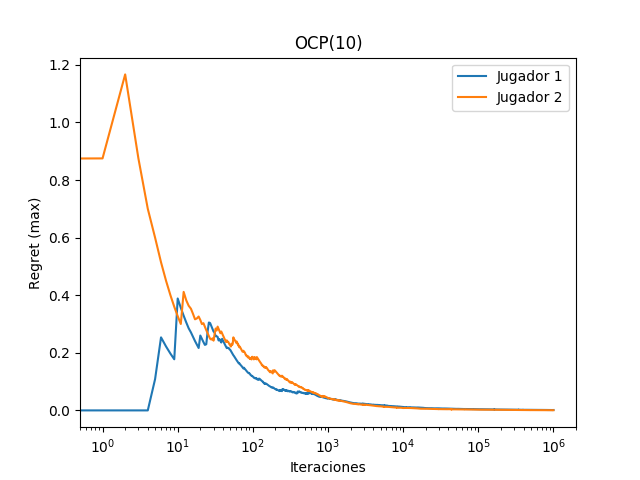
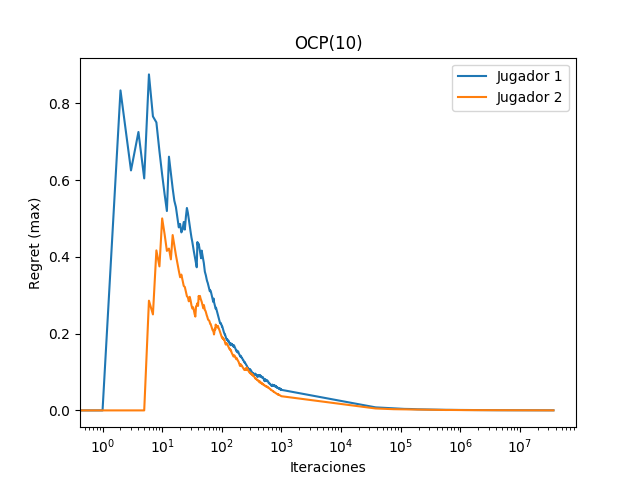
Improve graphics and OCP

diff --git a/src/cfr.cpp b/src/cfr.cpp
@@ -12,25 +12,40 @@ using namespace std;
 int total_seconds = 300;
 #define EPS 1e-5
 
-void cfr_kuhn(ostream& os_regret, ostream& os_strategy, ostream& os_inf_sets) {
+void cfr_kuhn(
+    ostream& os_regret,
+    ostream& os_strategy,
+    ostream& os_inf_sets,
+    ostream& os_iterations
+    )
+{
     using namespace kuhn_poker;
     KuhnPoker kuhn_poker;
     CFR<State, Action, Properties, InformationSet, Hash> cfr({&kuhn_poker}, EPS);
     cout << "training..." << endl;
     long long iterations = cfr.train(total_seconds, os_regret);
-    cout << "Iterations = " << iterations << endl;
+    os_iterations << "Total number of iterations:" << endl;
+    os_iterations << iterations << endl;
     cout << "finished training" << endl;
     cfr.print_strategy(os_strategy);
     kuhn_poker.print_information_sets(os_inf_sets);
 }
 
-void cfr_ocp(ostream& os_regret, ostream& os_strategy, ostream& os_inf_sets, int N) {
+void cfr_ocp(
+    ostream& os_regret,
+    ostream& os_strategy,
+    ostream& os_inf_sets,
+    ostream& os_iterations,
+    int N
+) {
     using namespace ocp;
     OCP ocp(N);
     CFR<State, Action, Properties, InformationSet, Hash> cfr({&ocp}, EPS);
-    cfr.train(total_seconds, os_regret);
+    long long iterations = cfr.train(total_seconds, os_regret);
     cfr.print_strategy(os_strategy);
     ocp.print_information_sets(os_inf_sets);
+    os_iterations << "Total number of iterations:" << endl;
+    os_iterations << iterations << endl;
 }
 
 void cfr_dudo(ostream& os_regret, ostream& os_strategy, ostream& os_inf_sets, int K, int D1, int D2) {
@@ -97,19 +112,21 @@ int main(int argc, char **argv) {
     string path_regret = "regret/" + folder + "/regret.txt";
     string path_strategy = "results/" + folder + "/strategy.txt";
     string path_inf_sets = "results/" + folder + "/information_sets.txt";
+    string path_iterations = "results/" + folder + "/iterations.txt";
     ofstream os_regret(path_regret.c_str());
     ofstream os_strategy(path_strategy.c_str());
     ofstream os_inf_sets(path_inf_sets.c_str());
+    ofstream os_iterations(path_iterations.c_str());
 
     if(game == "KuhnPoker"){
-        cfr_kuhn(os_regret, os_strategy, os_inf_sets);
+        cfr_kuhn(os_regret, os_strategy, os_inf_sets, os_iterations);
     } else if(game == "OCP"){
         if (argc < 3) {
             cout << "Debes introducir el numero de cartas" << endl;
             return 0;
         }
         int N = atoi(argv[2]);
-        cfr_ocp(os_regret, os_strategy, os_inf_sets, N);
+        cfr_ocp(os_regret, os_strategy, os_inf_sets, os_iterations, N);
     } else if(game == "Dudo") {
         if (argc < 5) {
             cout << "Debes introducir los parametros K, D1 y D2" << endl;
@@ -137,4 +154,8 @@ int main(int argc, char **argv) {
         cout << "\tDudo" << endl;
         cout << "\tDomino" << endl;
     }
+    os_regret.close();
+    os_strategy.close();
+    os_inf_sets.close();
+    os_iterations.close();
 }

diff --git a/src/algorithms/CFR.cpp b/src/algorithms/CFR.cpp
@@ -123,12 +123,13 @@ void CFR<State, Action, Properties, InformationSet, Hash>::normalize_strategy()
 }
 
 template <typename State, typename Action, typename Properties, typename InformationSet, typename Hash>
-long long CFR<State, Action, Properties, InformationSet, Hash>::train(int sec, ostream& os)
+long long CFR<State, Action, Properties, InformationSet, Hash>::train(long long sec, ostream& os)
 {
     vector <vector<int>> information_sets(2);
     auto total_seconds = (duration<long int, ratio<1, 1000000>>) (long long) sec*1000000;
     auto accumulated_time = (duration<long int, ratio<1, 1000000>>)0;
-    long long i;
+    long long slide = sec*1000;
+    long long i, j = 0, j0 = 0;
     for (i = 0; ; i++) {
         auto start = high_resolution_clock::now();
         for (int k = 1; k <= 2; k++){
@@ -137,18 +138,27 @@ long long CFR<State, Action, Properties, InformationSet, Hash>::train(int sec, o
         }
         auto stop = high_resolution_clock::now();
         accumulated_time = accumulated_time + duration_cast<microseconds>(stop-start);
-        vector <double> r(2, 0);
-        for (int k = 0; k < 2; k++) {
-            for (auto I : game->player_information_sets(k+1)) {
-                double regret = 0;
-                for (int a = 0; a < (int) R[I].size(); a++)
-                    regret = max(regret, R[I][a]);
-                r[k] += regret;
+
+        if(accumulated_time > (duration<long int, ratio<1, 1000000>>) slide*j) {
+            if (j0 < 1000){
+                j0++;
+            } else {
+                j++;
             }
-            r[k] /= i+1;
-            os << r[k] << ' ';
+            vector <double> r(2, 0);
+            os << i << ' ';
+            for (int k = 0; k < 2; k++) {
+                for (auto I : game->player_information_sets(k+1)) {
+                    double regret = 0;
+                    for (int a = 0; a < (int) R[I].size(); a++)
+                        regret = max(regret, R[I][a]);
+                    r[k] += regret;
+                }
+                r[k] /= i+1;
+                os << r[k] << ' ';
+            }
+            os << endl;
         }
-        os << endl;
         if (accumulated_time >= total_seconds)
             break;
     }

diff --git a/src/graph.py b/src/graph.py
@@ -7,19 +7,22 @@ def make_plot(path_input, path_graph, name):
     i = 0
     regret1 = []
     regret2 = []
+    iterations = []
     while i < MAX_VAL:
         line = file.readline()
         if not line:
             break
-        regret1.append(float(line.split()[0]))
-        regret2.append(float(line.split()[1]))
+        line = line.split()
+        iterations.append(int(line[0]))
+        regret1.append(float(line[1]))
+        regret2.append(float(line[2]))
         i = i+1
     file.close()
     plt.figure()
     plt.title(name)
     plt.xscale('log')
-    plt.plot(regret1, label='Jugador 1')
-    plt.plot(regret2, label='Jugador 2')
+    plt.plot(iterations, regret1, label='Jugador 1')
+    plt.plot(iterations, regret2, label='Jugador 2')
     plt.ylabel('Regret (max)')
     plt.xlabel('Iteraciones')
     plt.legend()

diff --git a/src/algorithms/CFR.hpp b/src/algorithms/CFR.hpp
@@ -79,9 +79,9 @@ public:
     *   calcula una aproximacion de un equilibrio de Nash
     *   iterando multiples veces
     *   parametros
-    *   @iterations:    numero de iteraciones
+    *   @total_seconds:    numero de segundos que durara el entrenamiento
     */
-    long long train(int total_seconds, ostream& os = cout);
+    long long train(long long total_seconds, ostream& os = cout);
 
     /**
     *   average_strategy
